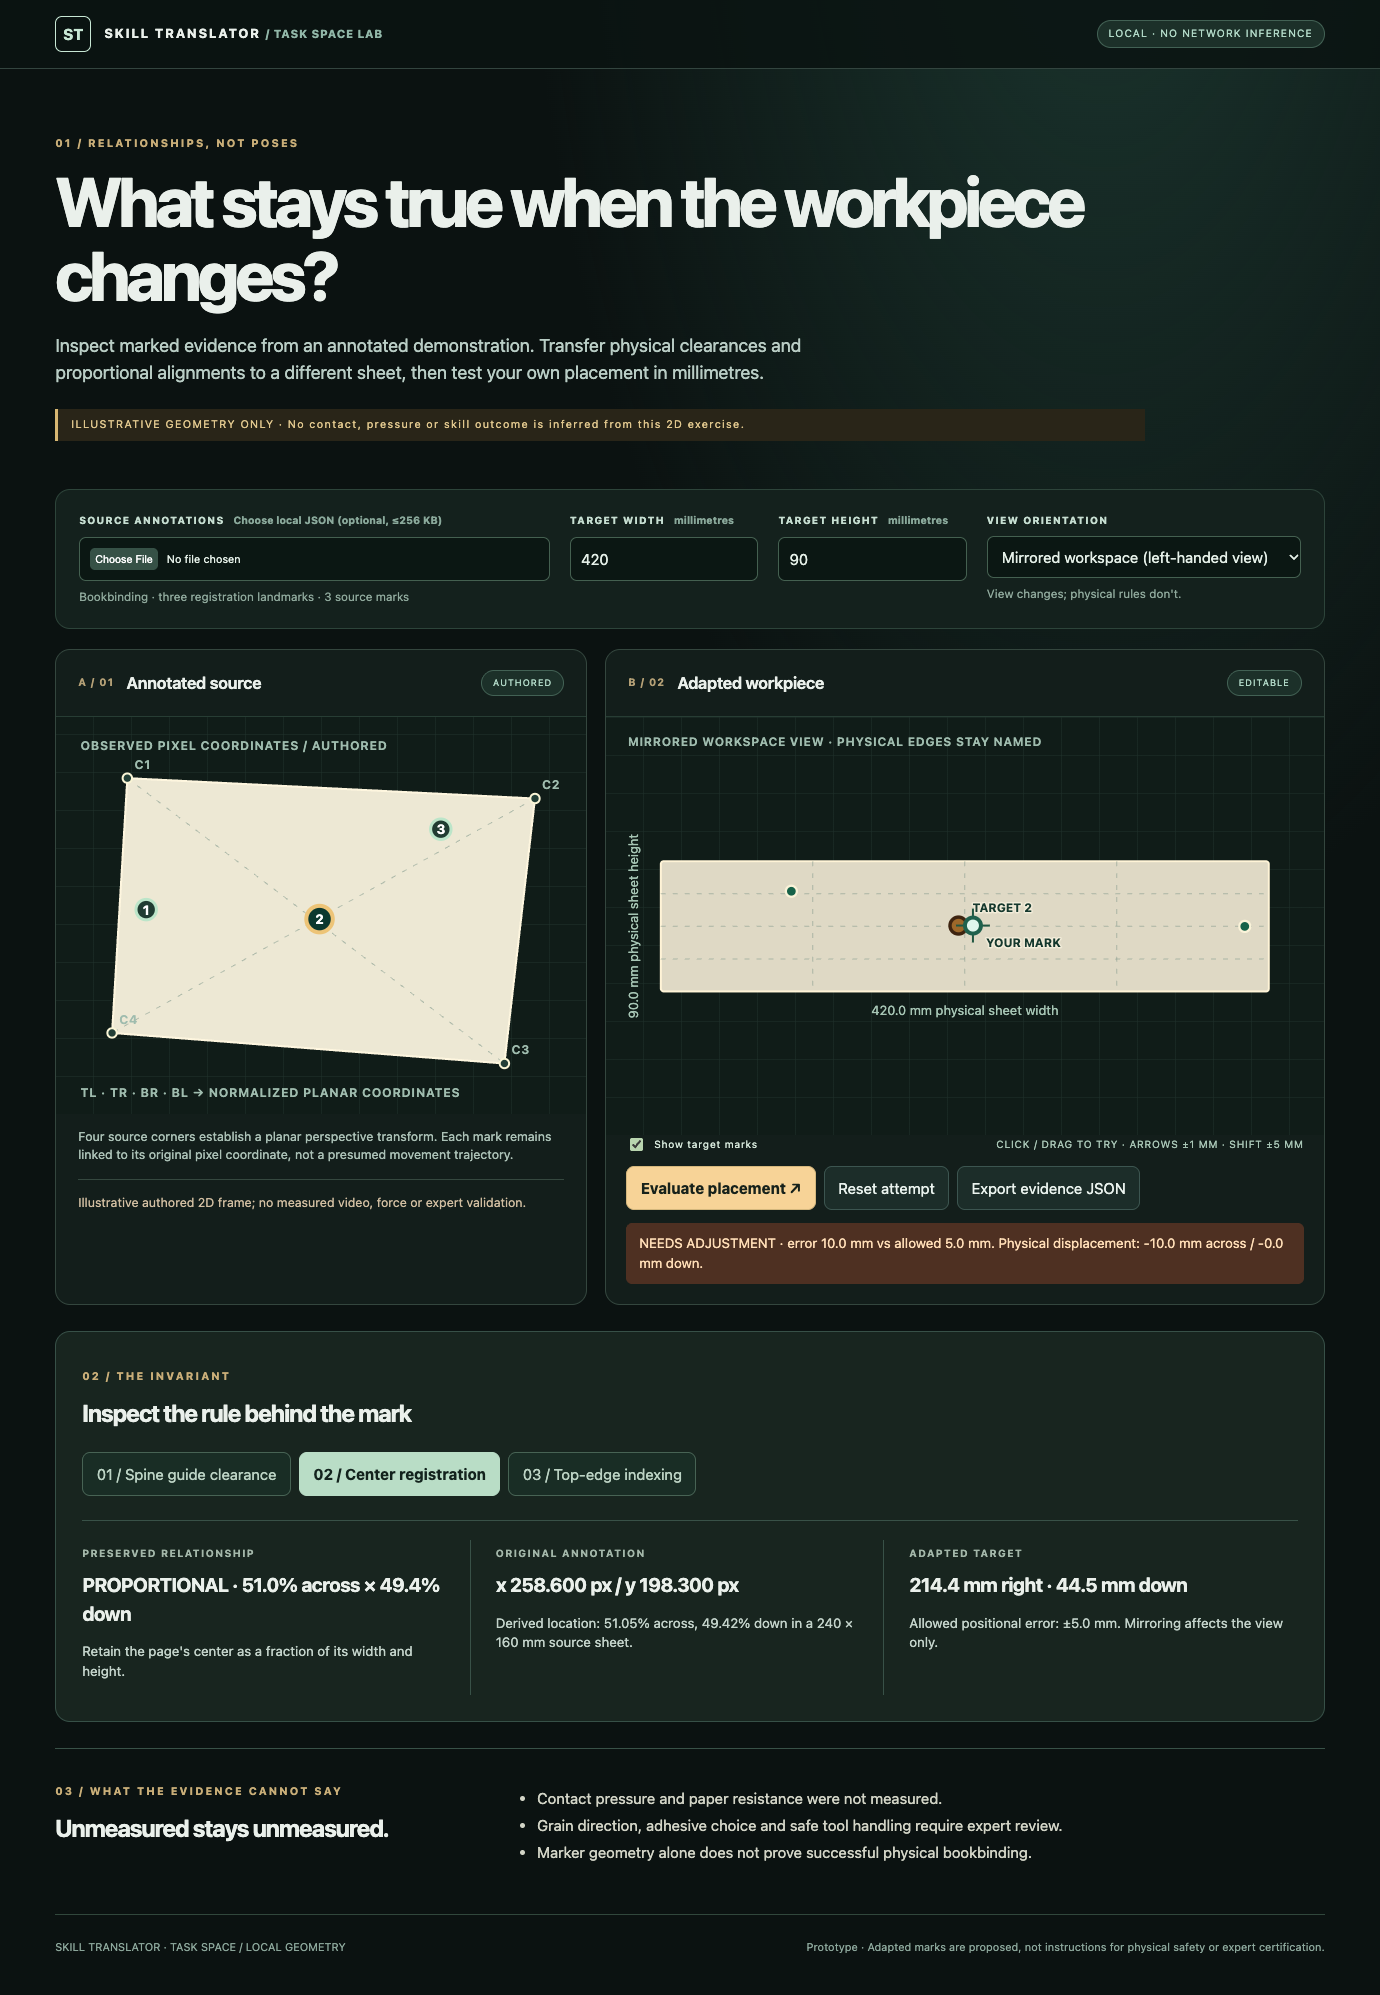
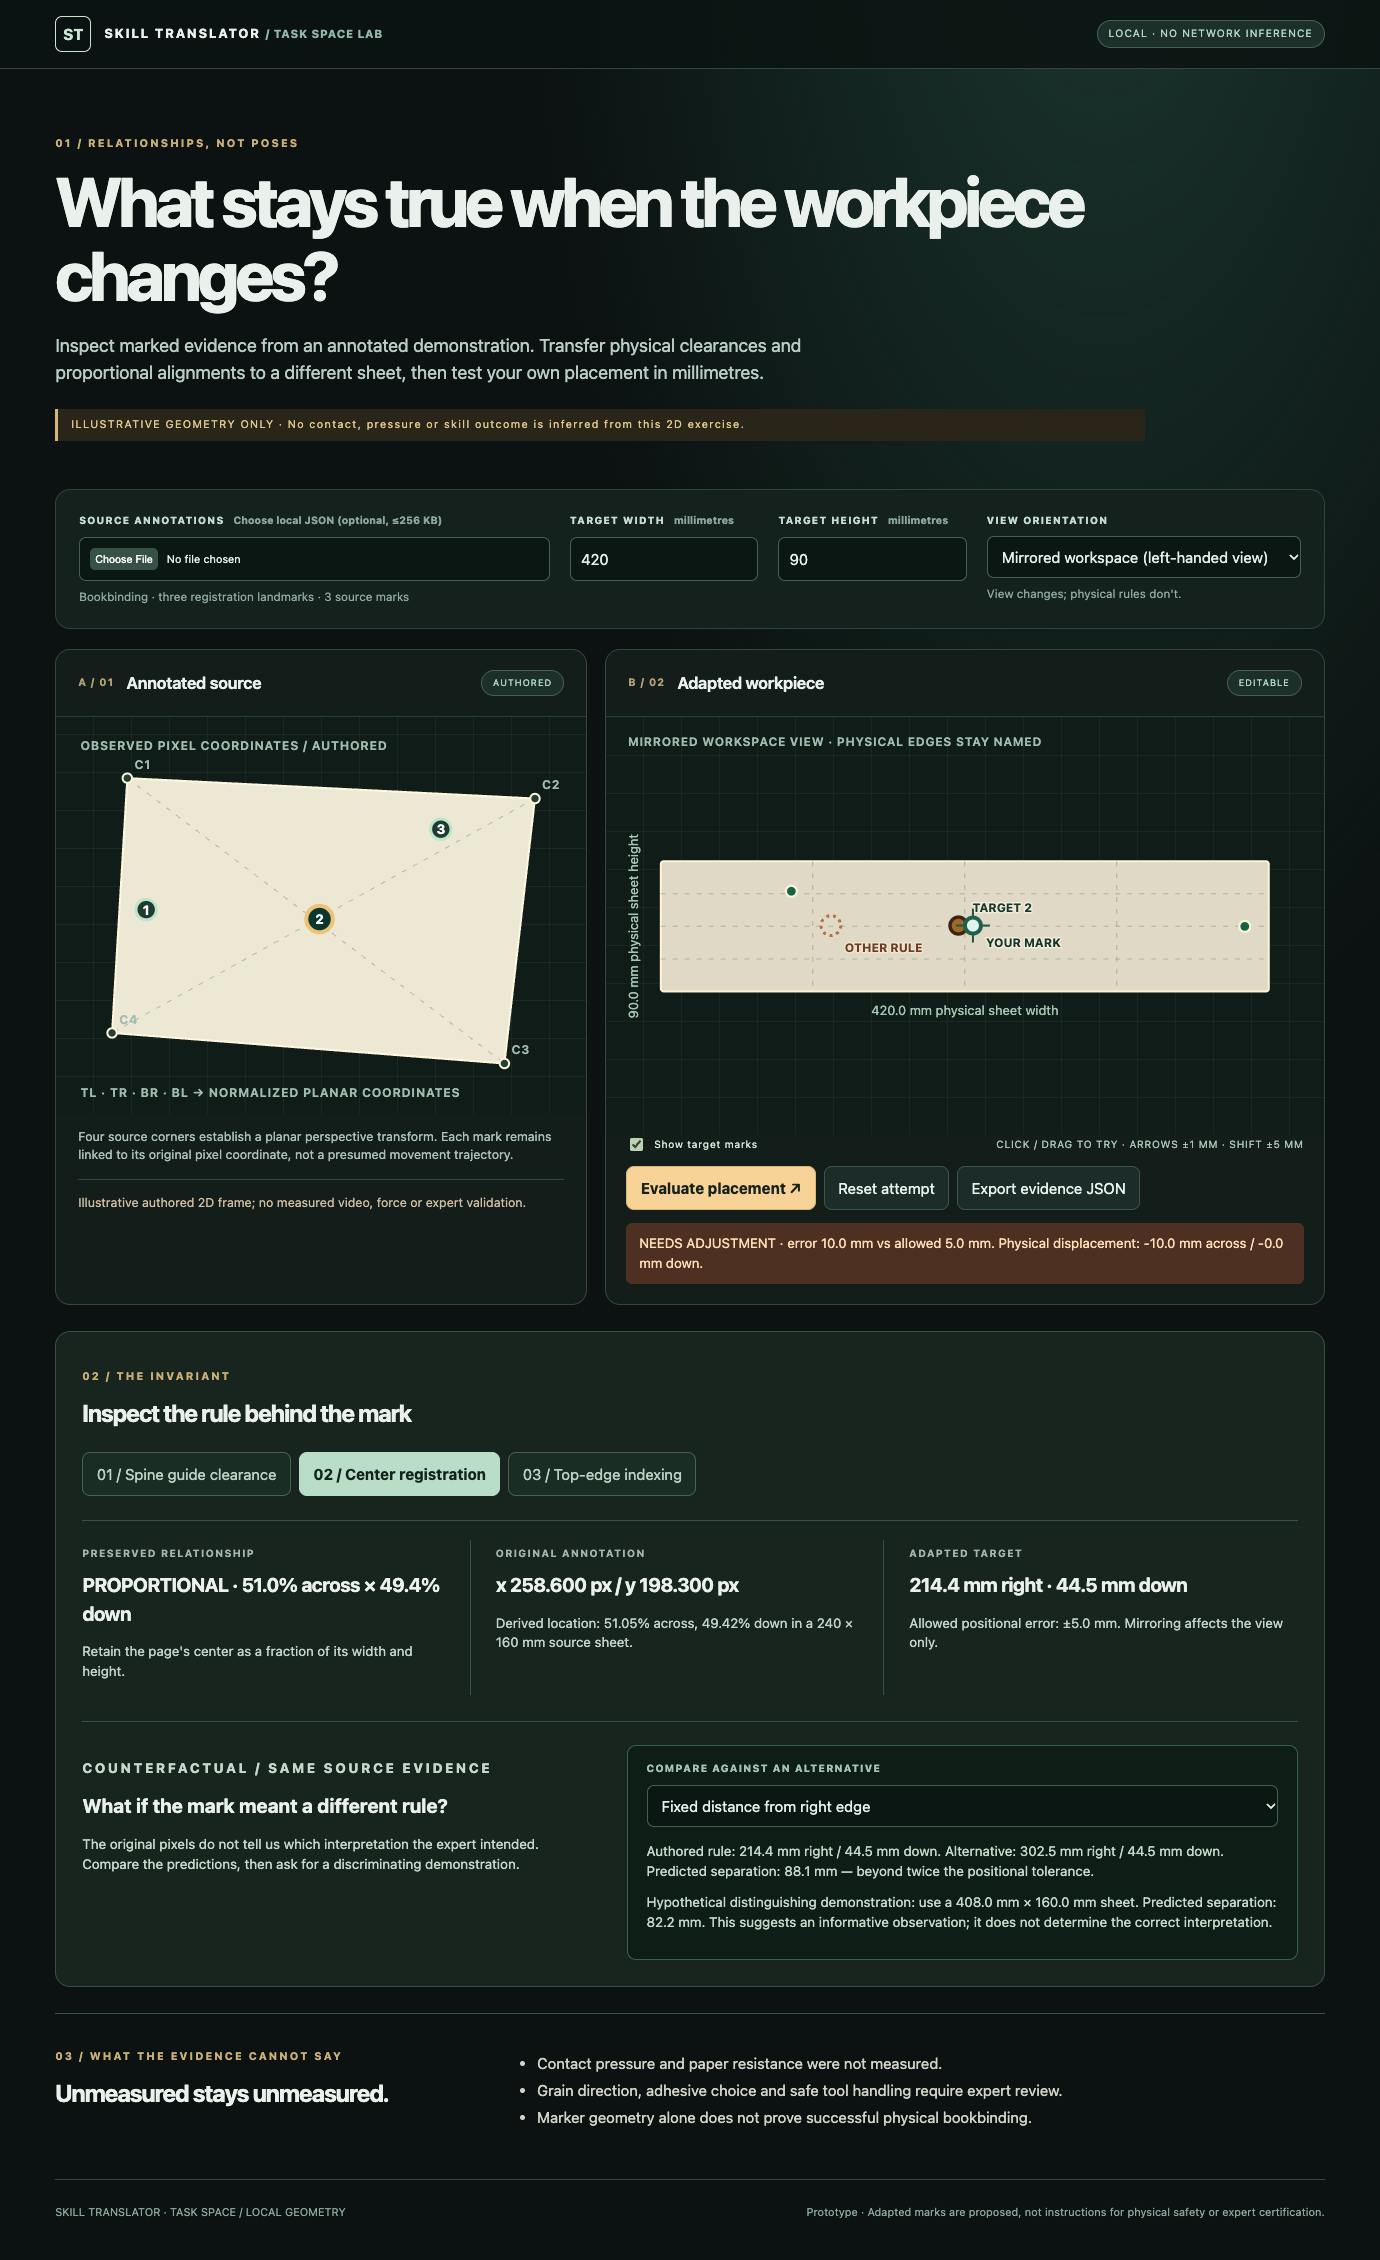
feat: compare competing task-space interpretations

diff --git a/web/styles.css b/web/styles.css
@@ -56,8 +56,16 @@ svg{display:block;width:100%;height:auto;touch-action:none;user-select:none}
 .detail-label{color:#a3b7a9;font-size:.68rem;letter-spacing:.13em;font-weight:700}
 .main-detail{font-size:1.3rem;font-weight:690;margin:9px 0;letter-spacing:-.025em}
 .detail-grid p:not(.main-detail){color:#c3d3ca;font-size:.89rem}
+ .hypothesis-box{margin-top:26px;padding-top:23px;border-top:1px solid #385147;display:grid;grid-template-columns:1fr 1.3fr;gap:28px}
+.hypothesis-box h3{font-size:1.3rem;margin:6px 0}.hypothesis-box p{color:#c5d9cb;font-size:.9rem}
+.hypothesis-results{padding:15px 19px;background:#0e1e17;border:1px solid #38604d;border-radius:9px}
+.hypothesis-results label{display:block;color:#a3c4b2;font-size:.68rem;letter-spacing:.12em;font-weight:750;margin-bottom:9px}
+.hypothesis-results select{margin-bottom:9px}.hypothesis-results p{margin:6px 0 11px}
+.alternative-goal{fill:none;stroke:#b66f42;stroke-width:3;stroke-dasharray:3 4}
+.alternative-text{font-size:12px;fill:#703b26;paint-order:stroke;stroke:#eee7cd;stroke-width:3px;stroke-linejoin:round;font-weight:750}
 .limits{display:grid;grid-template-columns:1fr 2fr;gap:28px;border-top:1px solid #385147;margin-top:24px;padding:24px 0 36px}
 .limits ul{margin:12px 0;color:#d2d4c6;line-height:1.8}
 footer{border-top:1px solid #31473c;padding:24px 0 40px;display:flex;gap:30px;justify-content:space-between;color:#8ba69a;font-size:.73rem}
 @media(max-width:1080px){.toolbar{grid-template-columns:repeat(2,minmax(0,1fr))}.workspace{grid-template-columns:1fr}.detail-grid{gap:12px}}
+@media(max-width:750px){.hypothesis-box{grid-template-columns:1fr}}
 @media(max-width:620px){.topbar{flex-wrap:wrap}.brand{font-size:.72rem}.hero{padding:31px 0}.toolbar{grid-template-columns:1fr;gap:15px;padding:18px}.panel-head{padding:14px}.panel-head h2{font-size:1rem}.panel-badge{font-size:.58rem}.inspector{padding:17px}.detail-grid,.limits{grid-template-columns:1fr}.detail-grid>div:not(:last-child){border-right:0;border-bottom:1px solid #385147;padding:0 0 12px}footer{display:block}footer span{display:block;margin-bottom:10px}.actions button{flex:1;min-width:160px}}

diff --git a/web/index.html b/web/index.html
@@ -70,6 +70,10 @@
       <div><span class="detail-label">ORIGINAL ANNOTATION</span><p id="sourcePosition" class="main-detail"></p><p id="sourceFraction"></p></div>
       <div><span class="detail-label">ADAPTED TARGET</span><p id="targetPosition" class="main-detail"></p><p id="targetTolerance"></p></div>
     </div>
+    <div class="hypothesis-box">
+      <div><p class="eyebrow">COUNTERFACTUAL / SAME SOURCE EVIDENCE</p><h3>What if the mark meant a different rule?</h3><p>The original pixels do not tell us which interpretation the expert intended. Compare the predictions, then ask for a discriminating demonstration.</p></div>
+      <div class="hypothesis-results"><label for="alternateRule">COMPARE AGAINST AN ALTERNATIVE</label><select id="alternateRule"></select><p id="alternativeOutcome" aria-live="polite"></p><p id="variationIdea"></p></div>
+    </div>
   </section>
   <section class="limits"><div><p class="eyebrow">03 / WHAT THE EVIDENCE CANNOT SAY</p><h2>Unmeasured stays unmeasured.</h2></div><ul id="unknowns"></ul></section>
   <footer><span>SKILL TRANSLATOR · TASK SPACE / LOCAL GEOMETRY</span><span>Prototype · Adapted marks are proposed, not instructions for physical safety or expert certification.</span></footer>

diff --git a/README.md b/README.md
@@ -13,6 +13,8 @@ Open http://127.0.0.1:8787 in a browser. The server binds loopback only and its 
 
 The included demonstration is **authored, synthetic 2D bookbinding registration geometry**. Its four corners simulate a pictured sheet; three annotated source landmarks represent a fixed distance from the spine edge, a fractional page alignment and a fixed top-edge index. Change the target sheet dimensions, select a mark and switch the workspace to a mirrored left-handed view. Physical edge names and transferred targets do not change merely because the view is mirrored. Click/drag or use arrow keys to place an attempted mark, press **Evaluate placement**, and inspect measured millimetre error against the authored tolerance. Hide targets for less-guided practice, or export a local JSON receipt of the geometry and attempt.
 
+The **competing interpretation** inspector treats the same original landmark as potentially meaning another physical-edge clearance or a proportional position. Its dashed alternative position and numerical separation update with sheet size, while a bounded counterfactual proposes a different sheet size that would separate predictions. This identifies useful follow-up **observations**, not the correct rule or a real demonstration outcome.
+
 You can load your **own local annotated geometry JSON** (≤256 KB) without uploading it. The tool visualizes annotations, transfers each declared invariant and refuses degenerate calibration or a target too small to maintain fixed physical clearance. It does **not** infer invariant types from video; the author must label each relationship.
 
 ## Source JSON contract
@@ -38,4 +40,4 @@ An optional real-browser QA course uses separately installed Puppeteer and Chrom
 
     PUPPETEER_PATH=/path/to/puppeteer node tools/browser-smoke.mjs
 
-It exercises rendered source/target geometry, a failing attempt, target resizing, mirrored accurate placement, keyboard correction, hidden goals, valid/invalid local imports, mobile layout, exceptions and offsite requests. Fictional screenshots and the browser receipt are retained under [docs/receipts/task-space-20261024](docs/receipts/task-space-20261024) after running it. Do not treat browser tests as proof of physical skill, video perception or provider inference.
+It exercises rendered source/target geometry, a failing attempt, target resizing, contrasting physical interpretations and their counterfactual size suggestion, mirrored accurate placement, keyboard correction, hidden goals, valid/invalid local imports, mobile layout, exceptions and offsite requests. Fictional screenshots and the browser receipt are retained under [docs/receipts/task-space-20261024](docs/receipts/task-space-20261024) after running it. Do not treat browser tests as proof of physical skill, video perception or provider inference.
